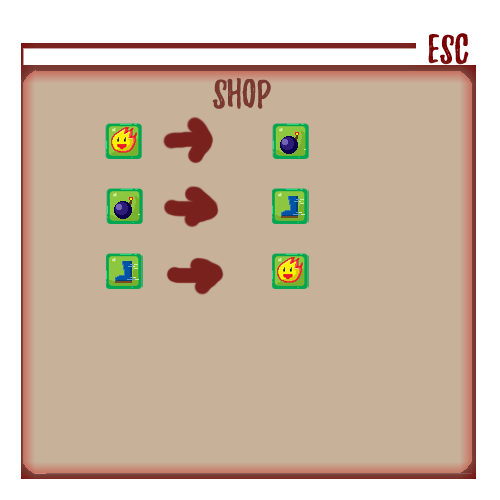
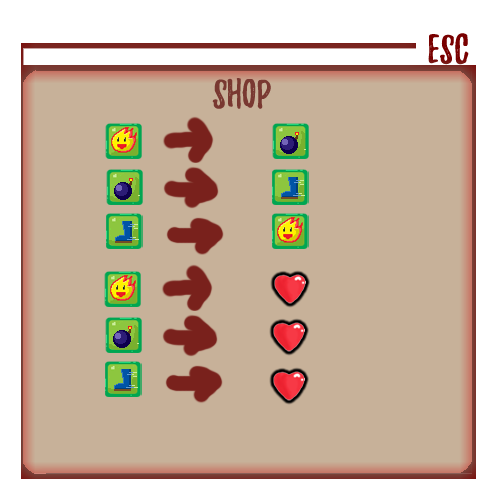
1.3

Changed region(s): [[0.33, 0.33, 0.45, 0.81], [0.21, 0.33, 0.3, 0.81], [0.54, 0.33, 0.63, 0.81]]

diff --git a/src/main/java/Room.java b/src/main/java/Room.java
@@ -3,6 +3,8 @@ import java.util.ArrayList;
 import java.util.Random;
 
 public class Room extends Object {
+    public static final int MAP_SIZE = 13;
+
     public static final int START = 0;
     public static final int DUNGEON = 1;
     public static final int SHOP = 2;
@@ -30,12 +32,17 @@ public class Room extends Object {
         if (type == 0) {
             s = new String[][]{
                     {"#", "#", "#", "#", "#", "1", "1", "1", "#", "#", "#", "#", "#"},
+                    {"#", " ", " ", " ", " ", " ", "/", " ", " ", " ", " ", " ", "#"},
+                    {"#", " ", " ", " ", " ", " ", " ", " ", " ", " ", " ", " ", "#"},
                     {"#", " ", " ", " ", " ", " ", " ", " ", " ", " ", " ", " ", "#"},
                     {"#", " ", " ", " ", " ", " ", " ", " ", " ", " ", " ", " ", "#"},
                     {"4", " ", " ", " ", " ", " ", " ", " ", " ", " ", " ", " ", "2"},
+                    {"4", "/", " ", " ", " ", " ", " ", " ", " ", " ", " ", " ", "2"},
                     {"4", " ", " ", " ", " ", " ", " ", " ", " ", " ", " ", " ", "2"},
                     {"#", " ", " ", " ", " ", " ", " ", " ", " ", " ", " ", " ", "#"},
                     {"#", " ", " ", " ", " ", " ", " ", " ", " ", " ", " ", " ", "#"},
+                    {"#", " ", " ", " ", " ", " ", " ", " ", " ", " ", " ", " ", "#"},
+                    {"#", " ", " ", " ", " ", " ", "/", " ", " ", " ", " ", " ", "#"},
                     {"#", "#", "#", "#", "#", "3", "3", "3", "#", "#", "#", "#", "#"}
             };
         } else if (type == 1) {
@@ -75,35 +82,35 @@ public class Room extends Object {
                 };
             } else if ( r == 2) {
                 s = new String[][]{
-                        {"#", "#", "#", "1", "1", "1", "#", "#", "#"},
-                        {"#", "B", " ", " ", "/", " ", " ", "G", "#"},
-                        {"#", " ", "W", " ", "W", " ", "W", " ", "#"},
-                        {"#", " ", " ", " ", " ", " ", " ", " ", "#"},
-                        {"#", " ", "W", " ", "W", " ", "W", " ", "#"},
-                        {"4", " ", " ", " ", " ", " ", " ", " ", "2"},
-                        {"4", "/", "W", "B", "W", "B", "W", "/", "2"},
-                        {"4", " ", " ", " ", " ", " ", " ", " ", "2"},
-                        {"#", " ", "W", " ", "W", " ", "W", " ", "#"},
-                        {"#", " ", " ", " ", " ", " ", " ", " ", "#"},
-                        {"#", "B", "W", " ", "W", " ", "W", "B", "#"},
-                        {"#", " ", " ", " ", "/", " ", " ", " ", "#"},
-                        {"#", "#", "#", "3", "3", "3", "#", "#", "#"}
+                        {"#", "#", "#", "#", "#", "1", "1", "1", "#", "#", "#", "#", "#"},
+                        {"#", " ", " ", " ", " ", " ", "/", " ", " ", " ", " ", " ", "#"},
+                        {"#", " ", " ", " ", " ", " ", " ", " ", " ", " ", " ", " ", "#"},
+                        {"#", " ", " ", " ", " ", " ", " ", " ", " ", " ", " ", " ", "#"},
+                        {"#", " ", " ", " ", " ", " ", " ", " ", " ", " ", " ", " ", "#"},
+                        {"4", " ", " ", " ", " ", " ", " ", " ", " ", " ", " ", " ", "2"},
+                        {"4", "/", " ", " ", " ", " ", " ", " ", " ", " ", " ", " ", "2"},
+                        {"4", " ", " ", " ", " ", " ", " ", " ", " ", " ", " ", " ", "2"},
+                        {"#", " ", " ", " ", " ", " ", " ", " ", " ", " ", " ", " ", "#"},
+                        {"#", " ", " ", " ", " ", " ", " ", " ", " ", " ", " ", " ", "#"},
+                        {"#", " ", " ", " ", " ", " ", " ", " ", " ", " ", " ", " ", "#"},
+                        {"#", " ", " ", " ", " ", " ", "/", " ", " ", " ", " ", " ", "#"},
+                        {"#", "#", "#", "#", "#", "3", "3", "3", "#", "#", "#", "#", "#"}
                 };
             } else {
                 s = new String[][]{
-                        {"#", "#", "#", "1", "1", "1", "#", "#", "#"},
-                        {"#", " ", " ", " ", "/", " ", " ", " ", "#"},
-                        {"#", " ", "W", " ", "W", " ", "W", " ", "#"},
-                        {"#", " ", " ", " ", " ", " ", " ", " ", "#"},
-                        {"#", " ", "W", "B", " ", "B", "W", " ", "#"},
-                        {"4", " ", " ", " ", "B", " ", " ", " ", "2"},
-                        {"4", "/", "W", "B", " ", "B", "W", "/", "2"},
-                        {"4", " ", " ", " ", "B", " ", " ", " ", "2"},
-                        {"#", " ", "W", "B", " ", "B", "W", " ", "#"},
-                        {"#", " ", " ", " ", " ", " ", " ", " ", "#"},
-                        {"#", " ", "W", " ", "W", " ", "W", " ", "#"},
-                        {"#", " ", " ", " ", "/", " ", " ", " ", "#"},
-                        {"#", "#", "#", "3", "3", "3", "#", "#", "#"}
+                        {"#", "#", "#", "#", "#", "1", "1", "1", "#", "#", "#", "#", "#"},
+                        {"#", " ", " ", " ", " ", " ", "/", " ", " ", " ", " ", " ", "#"},
+                        {"#", " ", " ", " ", " ", " ", " ", " ", " ", " ", " ", " ", "#"},
+                        {"#", " ", " ", " ", " ", " ", " ", " ", " ", " ", " ", " ", "#"},
+                        {"#", " ", " ", " ", " ", " ", " ", " ", " ", " ", " ", " ", "#"},
+                        {"4", " ", " ", " ", " ", " ", " ", " ", " ", " ", " ", " ", "2"},
+                        {"4", "/", " ", " ", " ", " ", " ", " ", " ", " ", " ", " ", "2"},
+                        {"4", " ", " ", " ", " ", " ", " ", " ", " ", " ", " ", " ", "2"},
+                        {"#", " ", " ", " ", " ", " ", " ", " ", " ", " ", " ", " ", "#"},
+                        {"#", " ", " ", " ", " ", " ", " ", " ", " ", " ", " ", " ", "#"},
+                        {"#", " ", " ", " ", " ", " ", " ", " ", " ", " ", " ", " ", "#"},
+                        {"#", " ", " ", " ", " ", " ", "/", " ", " ", " ", " ", " ", "#"},
+                        {"#", "#", "#", "#", "#", "3", "3", "3", "#", "#", "#", "#", "#"}
                 };
             }
         } else if (type == 2) {
@@ -124,13 +131,19 @@ public class Room extends Object {
             };
         } else {
             s = new String[][]{
-                    {"#", "#", "#", "1", "1", "1", "#", "#", "#"},
-                    {"#", " ", " ", " ", " ", " ", " ", " ", "#"},
-                    {"4", " ", " ", " ", " ", " ", " ", " ", "2"},
-                    {"4", " ", " ", " ", "+", " ", " ", " ", "2"},
-                    {"4", " ", " ", " ", " ", " ", " ", " ", "2"},
-                    {"#", " ", " ", " ", " ", " ", " ", " ", "#"},
-                    {"#", "#", "#", "3", "3", "3", "#", "#", "#"}
+                    {"#", "#", "#", "#", "#", "1", "1", "1", "#", "#", "#", "#", "#"},
+                    {"#", " ", " ", " ", " ", " ", "/", " ", " ", " ", " ", " ", "#"},
+                    {"#", " ", " ", " ", " ", " ", " ", " ", " ", " ", " ", " ", "#"},
+                    {"#", " ", " ", " ", " ", " ", " ", " ", " ", " ", " ", " ", "#"},
+                    {"#", " ", " ", " ", " ", " ", " ", " ", " ", " ", " ", " ", "#"},
+                    {"4", " ", " ", " ", " ", " ", " ", " ", " ", " ", " ", " ", "2"},
+                    {"4", "/", " ", " ", " ", " ", "+", " ", " ", " ", " ", " ", "2"},
+                    {"4", " ", " ", " ", " ", " ", " ", " ", " ", " ", " ", " ", "2"},
+                    {"#", " ", " ", " ", " ", " ", " ", " ", " ", " ", " ", " ", "#"},
+                    {"#", " ", " ", " ", " ", " ", " ", " ", " ", " ", " ", " ", "#"},
+                    {"#", " ", " ", " ", " ", " ", " ", " ", " ", " ", " ", " ", "#"},
+                    {"#", " ", " ", " ", " ", " ", "/", " ", " ", " ", " ", " ", "#"},
+                    {"#", "#", "#", "#", "#", "3", "3", "3", "#", "#", "#", "#", "#"}
             };
         }
         map = s;
@@ -314,12 +327,16 @@ public class Room extends Object {
     public void draw(Graphics g, Player player) {
         for (int j = 0; j < map_height; j++) {
             for (int i = 0; i < map_weigh; i++) {
+                g.drawImage(Resources.Images.FLOOR.getImage(), i * Resources.BLOCK_SIZE, j * Resources.BLOCK_SIZE, null);
+            }
+        }
+        for (int j = 0; j < map_height; j++) {
+            for (int i = 0; i < map_weigh; i++) {
                 switch(map[j][i].charAt(0)) {
                     case 'W' -> g.drawImage(Resources.Images.HARD_WALL.getImage(), i * Resources.BLOCK_SIZE, j * Resources.BLOCK_SIZE - 15, null);
                     case 'X' -> g.drawImage(Resources.Images.SOFT_WALL.getImage(), i * Resources.BLOCK_SIZE, j * Resources.BLOCK_SIZE - 15, null);
                     case '#' -> g.drawImage(Resources.Images.WALL2.getImage(), i * Resources.BLOCK_SIZE, j * Resources.BLOCK_SIZE - 15, null);
                     case '+' -> g.drawImage(Resources.Images.GATE.getImage(), i * Resources.BLOCK_SIZE, j * Resources.BLOCK_SIZE, null);
-                    default  -> g.drawImage(Resources.Images.FLOOR.getImage(), i * Resources.BLOCK_SIZE, j * Resources.BLOCK_SIZE, null);
                 }
 
                 switch(map[j][i].charAt(0)) {
@@ -342,6 +359,12 @@ public class Room extends Object {
             for (Enemy e : enemies) {
                 if (e.getY() == j)
                 e.draw(g);
+            }
+        }
+        for (int j = 0; j < map_height; j++) {
+            for (int i = 0; i < map_weigh; i++) {
+                if (map[j][i].charAt(0) == 'F' || map[j][i].charAt(0) == 'S')
+                    g.drawImage(Resources.Images.LIGHT.getImage(), i * Resources.BLOCK_SIZE - 25, j * Resources.BLOCK_SIZE - 35, null);
             }
         }
     }
@@ -370,7 +393,7 @@ public class Room extends Object {
                     }
                     if (map[j][i].charAt(0) == 'S') {
                         Random ran = new Random();
-                        int r = ran.nextInt() % 7;
+                        int r = ran.nextInt() % 10;
                         if (r == 1) map[j][i] = "I1";
                         else if (r == 2) map[j][i] = "I2";
                         else if (r == 3) map[j][i] = "I3";

diff --git a/src/main/java/Level.java b/src/main/java/Level.java
@@ -8,6 +8,7 @@ public class Level extends Object {
     private Player player;
     private int level;
     private boolean pause;
+    private boolean shop;
     private Hub hub;
 
     public Player getPlayer() {return player;}
@@ -16,6 +17,7 @@ public class Level extends Object {
         return hub;
     }
     public boolean isPause() {return pause;}
+    public boolean isShop() {return shop;}
 
     /**
      * khoi tao level, chon rooms[4][2] la phong khoi dau.
@@ -38,6 +40,11 @@ public class Level extends Object {
     public void pause() {
         if (pause) pause = false;
         else pause = true;
+    }
+
+    public void shoping() {
+        if (shop) shop = false;
+        else shop = true;
     }
 
     /**
@@ -129,10 +136,7 @@ public class Level extends Object {
      * @return 0 neu khong co gi say ra.
      */
     protected int update() {
-        if (pause) {
-
-        }
-        else {
+        if (!pause) {
             i++;
             int u = player.update();
             if (u > 0) {
@@ -153,7 +157,7 @@ public class Level extends Object {
                 player.setRoom(x, y, rooms[x][y]);
                 rooms[x][y].show = true;
                 player.enterRoom((u + 1) % 4 + 1);
-            }
+            } else if (u < 0) replay();
             if (i % 4 == 0 || u > 0) {
                 for (int i = 0; i < LEVEL_SIZE; i++) {
                     for (int j = 0; j < LEVEL_SIZE; j++) {
@@ -166,6 +170,18 @@ public class Level extends Object {
             }
         }
         return 0;
+    }
+
+    private void replay() {
+        level = 1;
+        rooms = new Room[LEVEL_SIZE][LEVEL_SIZE];
+        rooms[4][2] = new Room(Room.START, level);
+        buildLevel();
+        player.Init(rooms[4][2],Resources.Animation.TEEMO.getAnimation(),
+                Resources.Animation.RUN.getAnimation(),
+                Resources.Animation.TEEMODEAD.getAnimation());
+        player.setRoom(4,2,rooms[4][2]);
+        rooms[4][2].show = true;
     }
 
     protected void draw(Graphics g) {
@@ -183,8 +199,13 @@ public class Level extends Object {
         }
         drawHub(g);
 
-        if (pause) {
+        if (player.room.getType() != Room.SHOP) {
+            shop = false;
+        } else if (shop) {
             hub.draw(g);
+        }
+        if (pause) {
+                g.drawImage(Resources.Images.PAUSE.getImage(), 0, 0, null);
         }
     }
 

diff --git a/src/main/java/Hub.java b/src/main/java/Hub.java
@@ -16,8 +16,8 @@ public class Hub extends Object {
         this.y = y;
         buttons = new ArrayList<>();
         hub_image = Resources.Images.SHOP.getImage();
-        for (int i = 0; i < 3; i++) {
-            buttons.add(new Button(x + 350, y + 118 + i * 65, i, player));
+        for (int i = 0; i < 6; i++) {
+            buttons.add(new Button(x + 350, y + 118 + i * 50, i, player));
         }
     }
 
@@ -61,7 +61,13 @@ class Button {
         to = from + ran.nextInt(3) + 1;
         if (type == 1 && to % 2 != 0 ) to++;
         if (type == 2 && from % 2 != 0) from++;
-        gold = ran.nextInt((to - from + 1) * 4) + 10;
+        if (type == 5 && from % 2 != 0) from++;
+        if (type > 2) {
+            to = to % 2 + 1;
+            gold = ran.nextInt((to * 4) + 10);
+        }else {
+            gold = ran.nextInt((to - from + 1) * 4) + 10;
+        }
         width = 98;
         height = 46;
         button_image = Resources.Images.BUTTON.getImage();
@@ -84,8 +90,23 @@ class Button {
                     player.gold -= gold;
                     player.speed -= from;
                     player.power += to;
+                } else if (type == 3 && player.power > from) {
+                    player.gold -= gold;
+                    player.power -= from;
+                    player.life += to;
+                } else if (type == 4 && player.bombNumber > from) {
+                    player.gold -= gold;
+                    player.bombNumber -= from;
+                    player.life += to;
+                } else if (type == 5 && player.speed > from) {
+                    player.gold -= gold;
+                    player.speed -= from;
+                    player.life += to;
                 }
-            } else {
+                else {
+                    select = false;
+                }
+            }  else {
                 select = false;
             }
         }

diff --git a/src/main/java/Resources.java b/src/main/java/Resources.java
@@ -14,6 +14,7 @@ public class Resources {
 
     public enum Images {
         BACKGROUND,
+        LIGHT,
         SHOP,
         BUTTON,
         BUTTONS,
@@ -31,6 +32,7 @@ public class Resources {
         SOFT_WALL,
         SPEEDUP,
         TRANSITIONS,
+        PAUSE,
         WALL2;
 
         private BufferedImage image = null;
@@ -77,6 +79,7 @@ public class Resources {
             String res = "/Img/";
             System.out.println(Resources.class.getResource(""));
             Images.GATE.image = ImageIO.read(Resources.class.getResource(res + "Gate.png"));
+            Images.LIGHT.image = ImageIO.read(Resources.class.getResource(res + "LIGHT.png"));
             Images.COIN.image = ImageIO.read(Resources.class.getResource(res + "Coin.png"));
             Images.BACKGROUND.image = ImageIO.read(Resources.class.getResource(res + "Bg.png"));
             Images.FLOOR.image = ImageIO.read(Resources.class.getResource(res + "Floor.png"));
@@ -94,6 +97,7 @@ public class Resources {
             Images.MINIMAP.image = ImageIO.read(Resources.class.getResource(res + "Map.png"));
 
             res = "/Hub/";
+            Images.PAUSE.image = ImageIO.read(Resources.class.getResource(res + "Pause.png"));
             Images.SHOP.image = ImageIO.read(Resources.class.getResource(res + "Shop.png"));
             Images.BUTTON.image = ImageIO.read(Resources.class.getResource(res + "ShopButton.png"));
             Images.BUTTONS.image = ImageIO.read(Resources.class.getResource(res + "ShopButtonS.png"));

diff --git a/src/main/java/GamePanel.java b/src/main/java/GamePanel.java
@@ -98,6 +98,7 @@ class GameController implements KeyListener {
         if (e.getKeyCode() == KeyEvent.VK_D) player.rightPressed();
         if (e.getKeyCode() == KeyEvent.VK_W) player.upPressed();
 
+        if (e.getKeyCode() == KeyEvent.VK_E) level.shoping();
         if (e.getKeyCode() == KeyEvent.VK_SPACE) player.putBomb();
         if (e.getKeyCode() == KeyEvent.VK_ESCAPE) level.pause();
     }
@@ -141,7 +142,7 @@ class GameClick implements MouseListener {
 
     @Override
     public void mousePressed(MouseEvent e) {
-        if (level.isPause())
+        if (level.isShop())
             level.getHub().click(e.getX(), e.getY());
     }
 }
